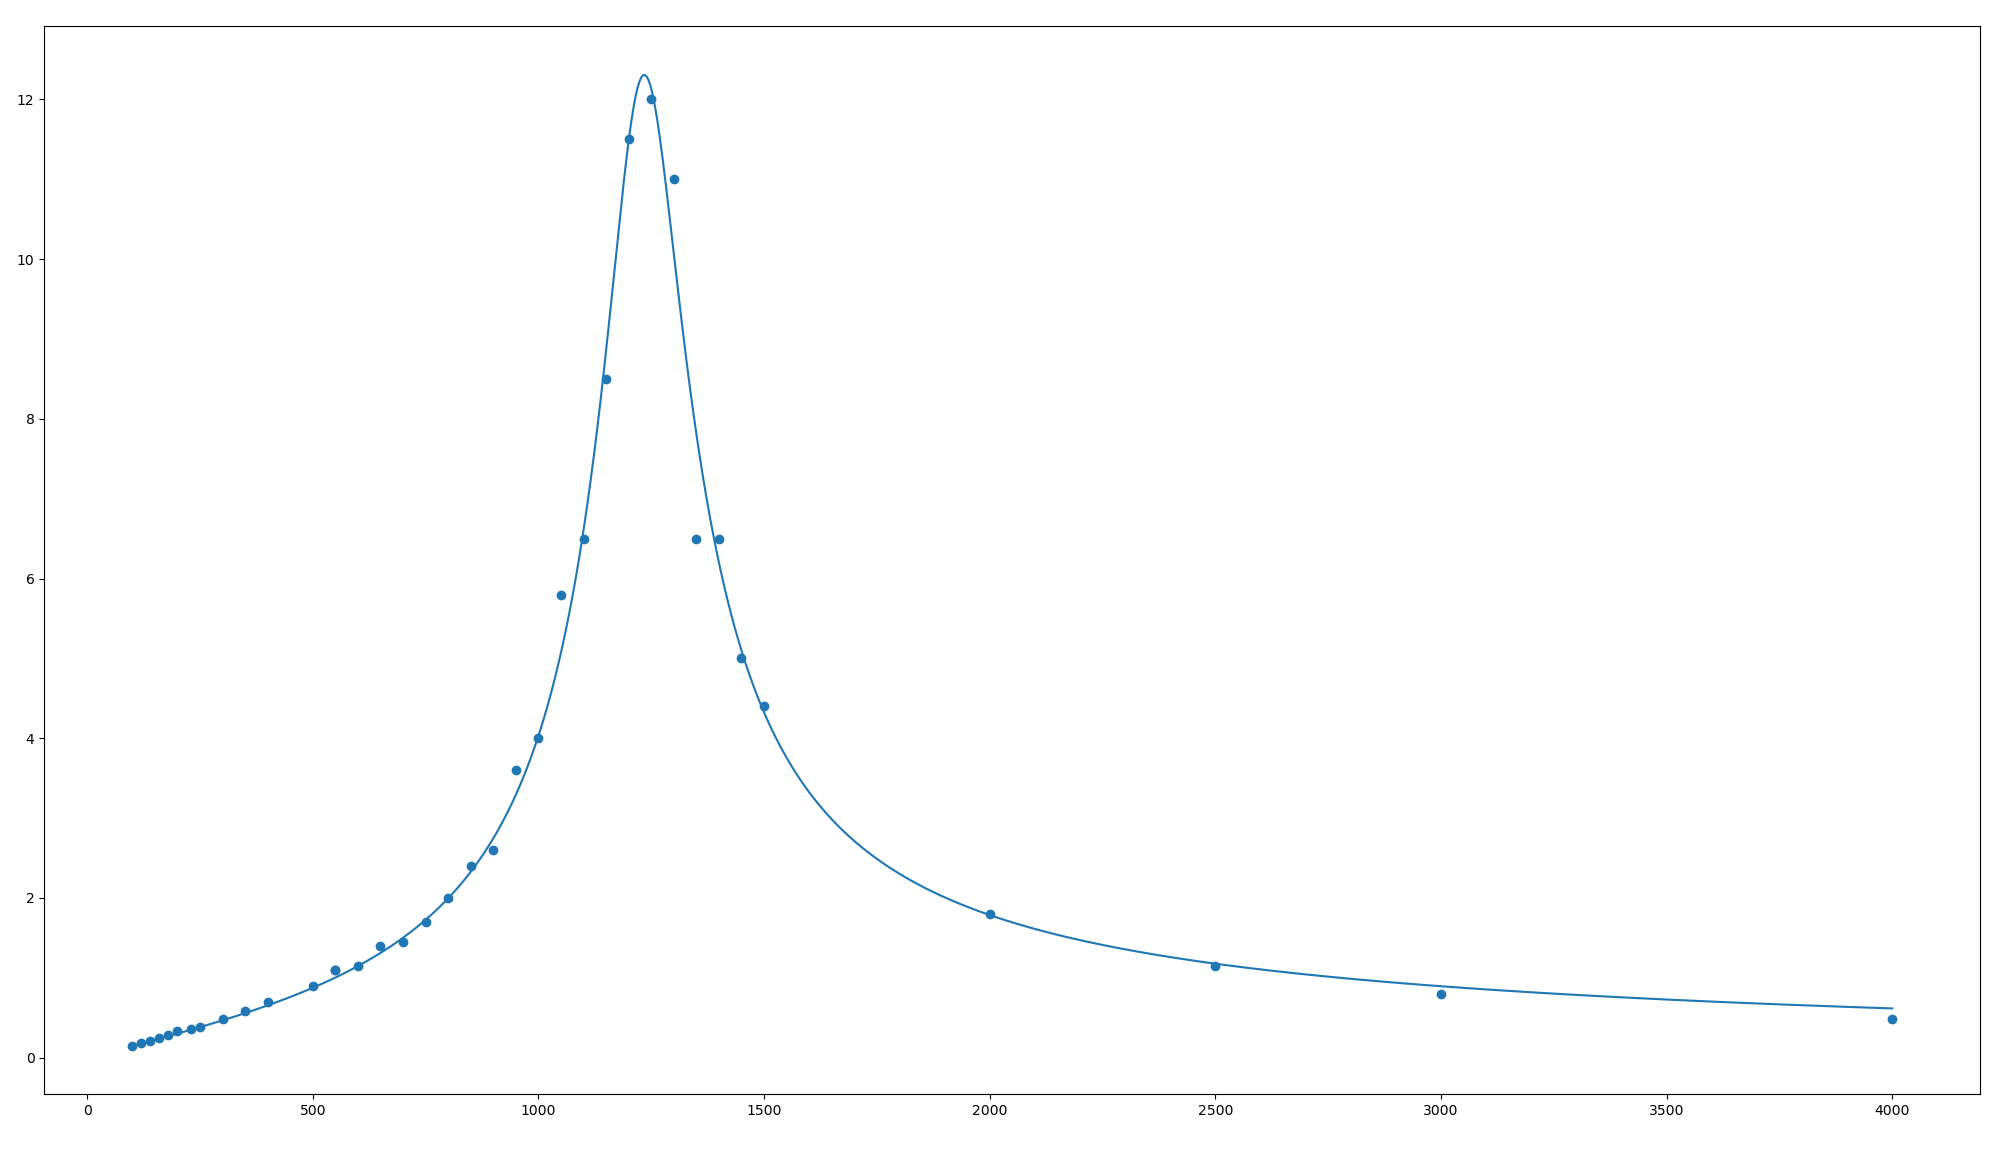
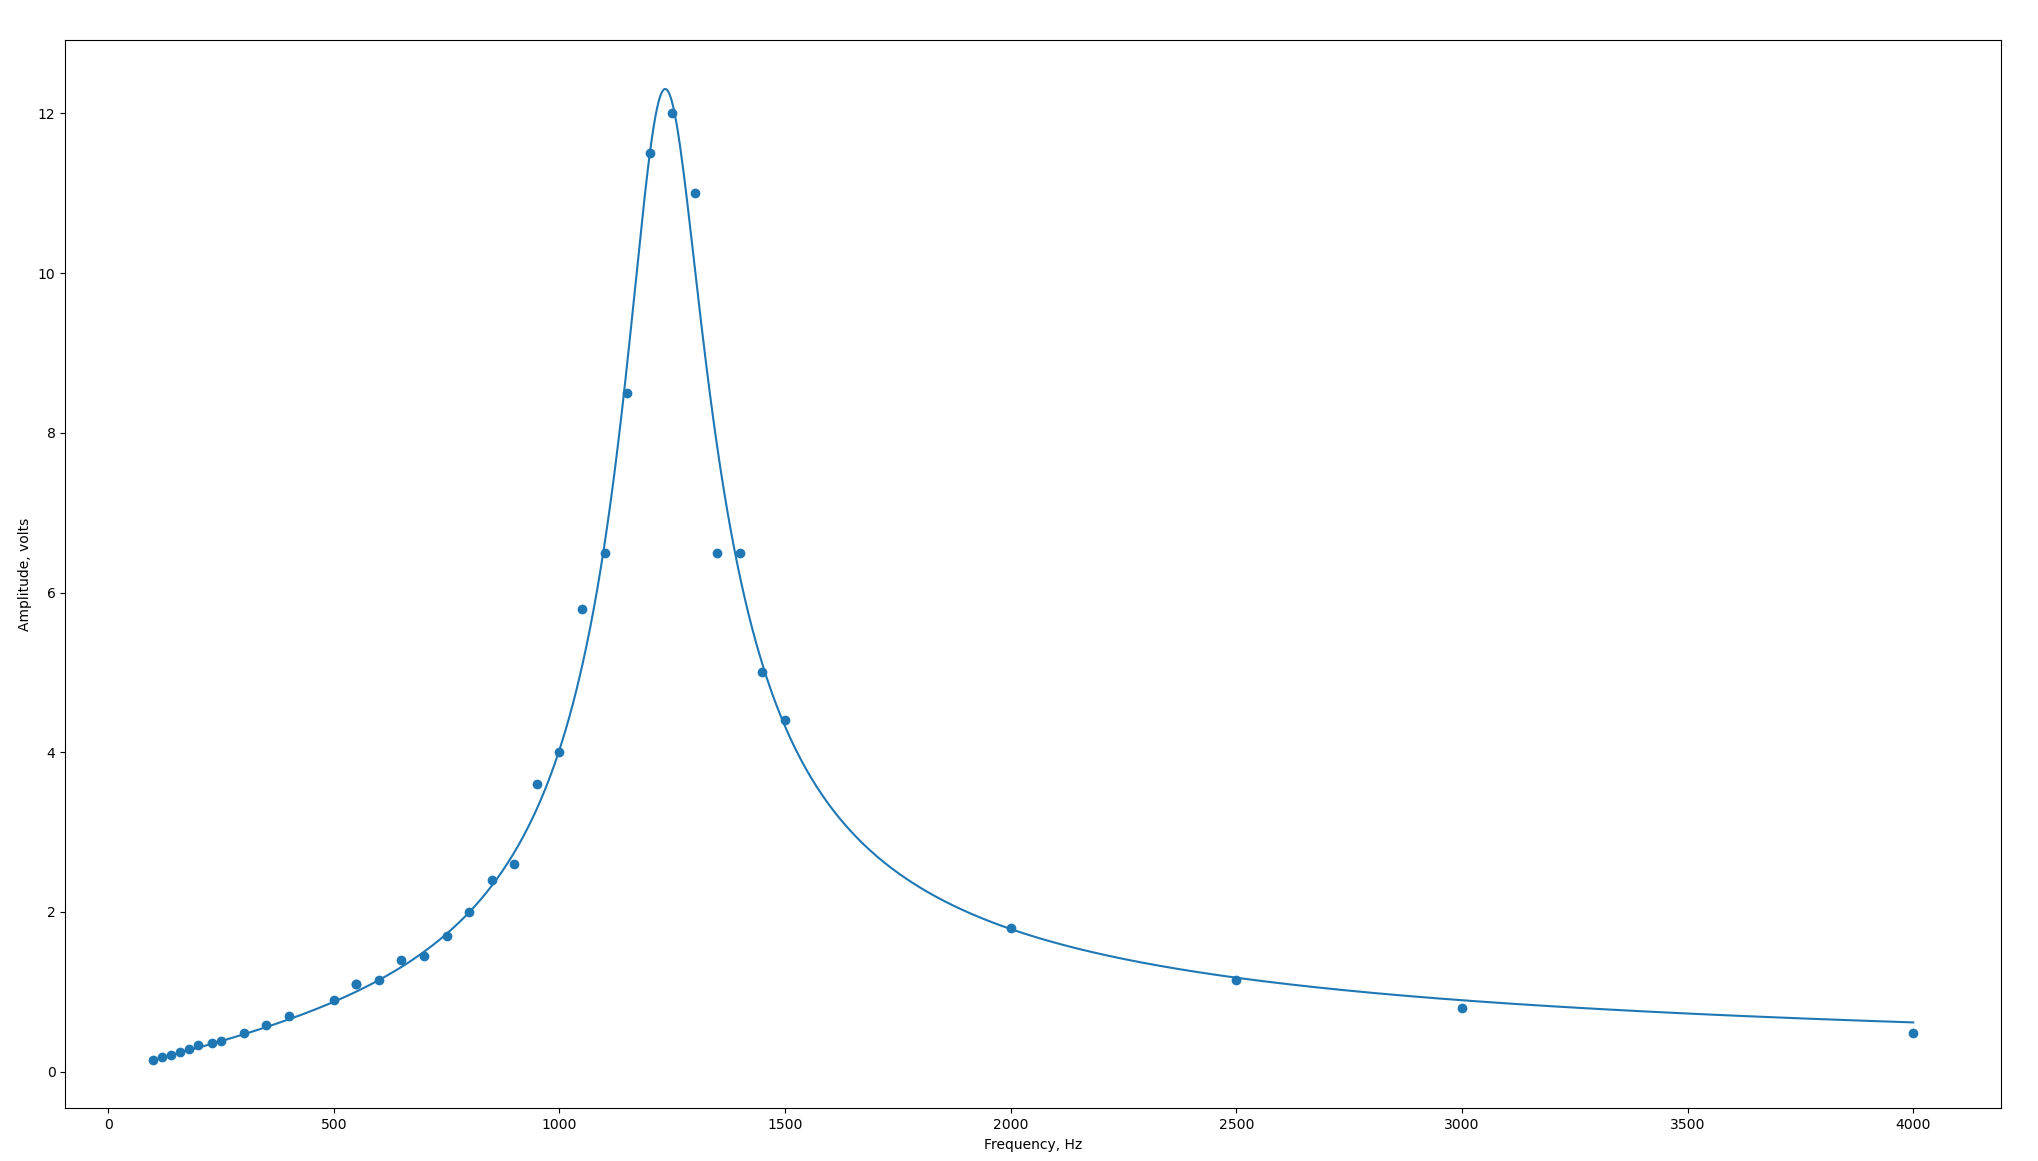
add axis labels

diff --git a/RLCResonance/QFactor_counter.py b/RLCResonance/QFactor_counter.py
@@ -24,13 +24,13 @@ def get_estimator(resonance_curve: Callable):
 def count_QFactor_by_curve(resonance_curve: Callable) -> float:
 	# Find max:
 	optimal_freq, max_value = find_resonance(resonance_curve)
-
+	print(f"Peak at: {optimal_freq}")
 	# required_value = max_value / math.sqrt(2)
 	# print(f"Looking for: {required_value} (= {max_value} / sqrt(2))", )
 	estimator = get_estimator(resonance_curve) # lambda x: (resonance_curve(x) - required_value)**2
 
 	left_window_border = n_ary_search(estimator, 300, 1e-5, optimal_freq, 100, 20, True)
-	right_window_border = n_ary_search(estimator, 500, optimal_freq, 2e+4, 100, 20, True)
+	right_window_border = n_ary_search(estimator, 500, optimal_freq, 1e+5, 100, 20, True)
 	print(left_window_border, right_window_border)
 	print(estimator(left_window_border), estimator(right_window_border))
 	# 1147.,  1328.
@@ -46,6 +46,8 @@ def graph_q_factor_finding(resonance_curve: Callable):
 
 	required_value = max_value / math.sqrt(2)
 
+	plt.xlabel("Frequency, Hz")
+	plt.ylabel("Amplitude, volts")
 	freqs = np.linspace(min([i[0] for i in real_data]), max([i[0] for i in real_data]), 1_000)
 	plt.plot(freqs, configured_resonance_curve(freqs))
 	plt.scatter(*zip(*real_data))
@@ -56,16 +58,26 @@ def graph_q_factor_finding(resonance_curve: Callable):
 def factor_q_factor_estimator(resonance_curve: Callable):
 	est = get_estimator(resonance_curve)
 
+	plt.xlabel("Frequency, Hz")
+	plt.ylabel("Amplitude, volts")
 	freqs = np.linspace(min([i[0] for i in real_data]), max([i[0] for i in real_data]), 1_000)
 	plt.plot(freqs, est(freqs))
 	plt.show()
 
 
 if __name__ == '__main__':
-	# graph_q_factor_finding(configured_resonance_curve)
-	factor_q_factor_estimator(configured_resonance_curve)
+	graph_q_factor_finding(configured_resonance_curve)
+	# factor_q_factor_estimator(configured_resonance_curve)
+
+	exit(9)
+
 
 	print("_______________________________________")
-	print(f"QFactor is: {count_QFactor_by_curve(configured_resonance_curve)}")
-	print(f"QFactor (analytically) is : {math.sqrt(L / c) / R}")
+	Q_graph = count_QFactor_by_curve(configured_resonance_curve)
+	print(f"L = {L}, C = {c}, R = {R}")
+	Q_anal = math.sqrt(L / c) / R
+	print(f"QFactor (analytically) is : {Q_anal}")
+
+	print(f"Graph QFactor is: {Q_graph}")
+	print(f"Dispersion: {abs(Q_anal - Q_graph) / (Q_anal + Q_graph)}")
 

diff --git a/RLCResonance/approximator.py b/RLCResonance/approximator.py
@@ -48,6 +48,9 @@ def configured_resonance_curve(frequency):
 if __name__ == '__main__':
 	freqs = np.linspace(min([i[0] for i in real_data]), max([i[0] for i in real_data]), 1_000)
 
+	plt.xlabel("Frequency, Hz")
+	plt.ylabel("Amplitude, volts")
+
 	plt.plot(freqs, configured_resonance_curve(freqs))
 	plt.scatter(*zip(*real_data))
 	plt.show()
